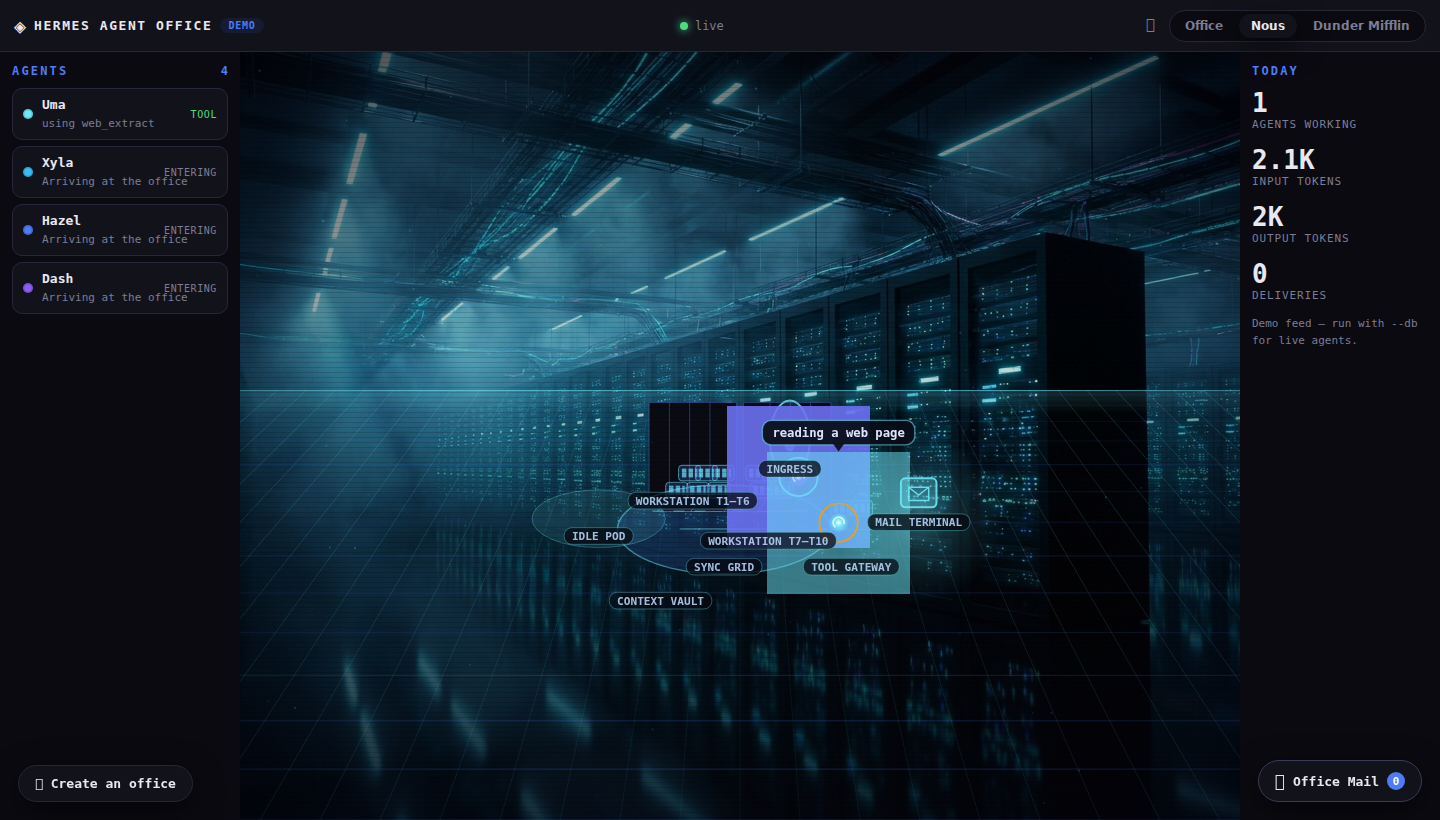
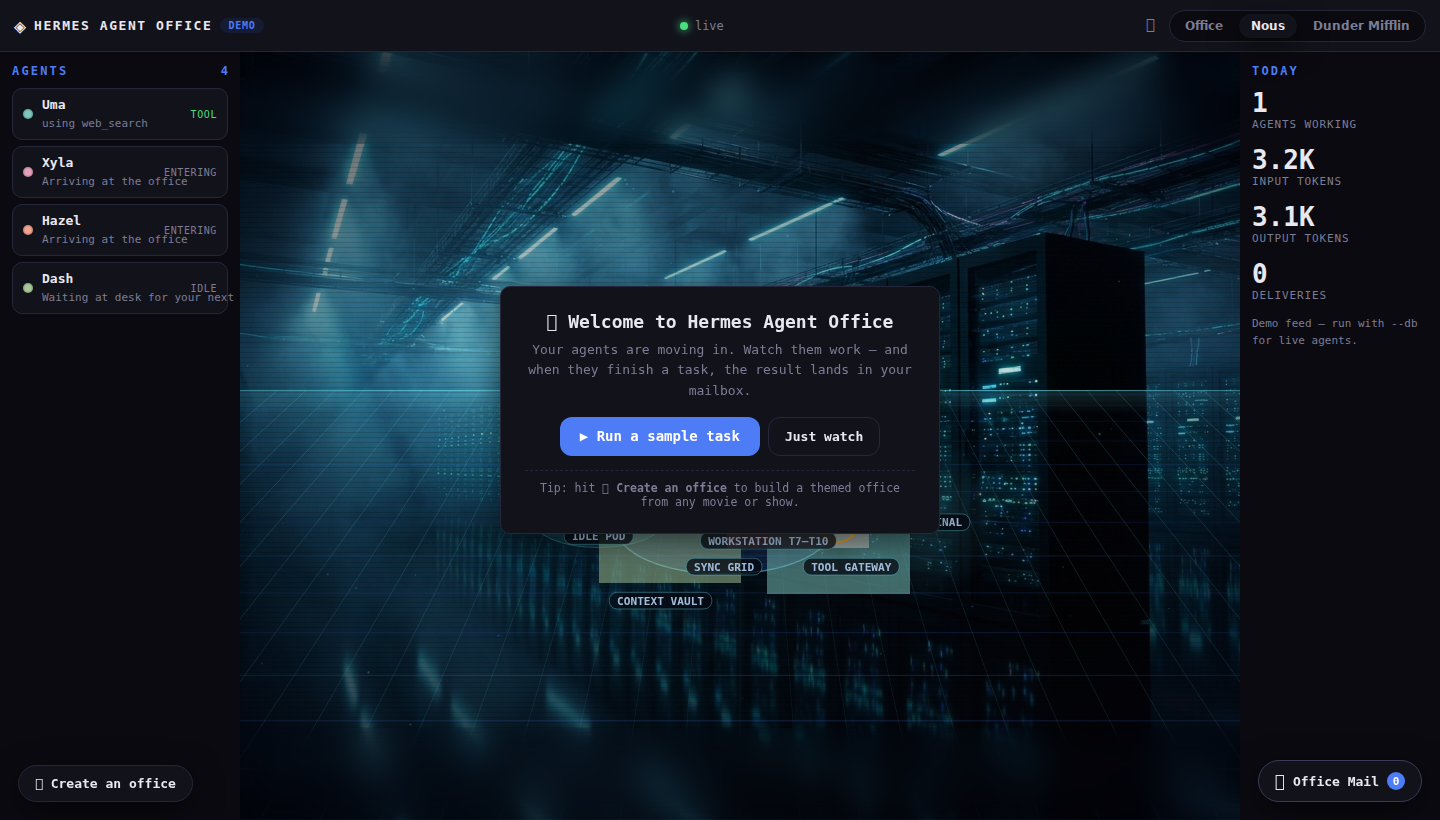
feat: tilt-shift depth-of-field on all themes, archetype cast on built-in themes, generated ambient soundscape (WebAudio), fixed cast dispatch for generic office

diff --git a/web/app.js b/web/app.js
@@ -9,7 +9,7 @@
 
 const THEMES = {
   office: {
-    name: 'office', brand: '🏢', renderer: 'office',
+    name: 'office', brand: '🏢', renderer: 'office', franchiseId: 'office',
     ui: { accent: '#d96f4a' },
     floor: { base: '#e8dcc3', alt: '#e1d3b6', grid: 'rgba(120,100,60,0.10)' },
     wall: { back: '#a9b8a0', side: '#9db29a', base: '#8fa08a', frame: '#7c8a76' },
@@ -36,7 +36,7 @@ const THEMES = {
   },
 
   nous: {
-    name: 'nous', brand: '◈', renderer: 'nous',
+    name: 'nous', brand: '◈', renderer: 'nous', franchiseId: 'office',
     ui: { accent: '#4d7cf6' },
     floor: { base: '#0d0d15', alt: '#10101a', grid: 'rgba(77,124,246,0.28)' },
     wall: { back: '#13131e', side: '#101019', base: '#1a1a28', frame: '#2a2a42' },
@@ -63,7 +63,7 @@ const THEMES = {
   },
 
   dunder: {
-    name: 'dunder', brand: '📎', renderer: 'dunder',
+    name: 'dunder', brand: '📎', renderer: 'dunder', franchiseId: 'office',
     ui: { accent: '#c07c2b' },
     floor: { base: '#8b93a8', alt: '#878fa4', grid: 'rgba(60,60,80,0.14)' },
     wall: { back: '#d9c9a8', side: '#d3c2a0', base: '#b8a683', frame: '#a59370' },
@@ -229,7 +229,9 @@ function handleEvent(ev) {
 
 function agentFromStore(ev) {
   const name = ev.agent || 'Agent';
-  const look = castLook(name, (eng.theme && eng.theme.franchiseId) || null);
+  const look = (eng.theme && eng.theme.franchiseId)
+    ? castLook(name, eng.theme.franchiseId)
+    : officeCastLook(name);
   return {
     id: ev.agent_id || ev.session || ('a' + Math.random().toString(36).slice(2)),
     name,
@@ -249,7 +251,7 @@ function relookAgents() {
   const fid = (eng.theme && eng.theme.franchiseId) || null;
   const darkTheme = !!(eng.theme && eng.theme.fx && eng.theme.fx.dark);
   for (const a of eng.agents.values()) {
-    a.look = castLook(a.name, fid);
+    a.look = fid ? castLook(a.name, fid) : officeCastLook(a.name);
     a.look.hue = darkTheme ? liftDark(a.look.hue || a.color) : (a.look.hue || a.color);
     a.color = a.look.hue;
   }
@@ -476,10 +478,62 @@ const Sound = {
   },
   delivery() { this.pop(660, 0.12, 0.06); setTimeout(() => this.pop(880, 0.1, 0.04), 90); },
   theme() { this.pop(440, 0.08, 0.04); },
+  /* ambient office soundscape — synthesized, zero assets */
+  ambientNodes: null,
+  startAmbient() {
+    this.ensure();
+    if (this.ambientNodes || !this.ctx || this.muted) return;
+    const ctx = this.ctx;
+    const master = ctx.createGain();
+    master.gain.value = 0.035;
+    master.connect(ctx.destination);
+    // brown-ish noise (air handling / room tone)
+    const len = ctx.sampleRate * 2;
+    const buf = ctx.createBuffer(1, len, ctx.sampleRate);
+    const d = buf.getChannelData(0);
+    let last = 0;
+    for (let i = 0; i < len; i++) { const w = Math.random() * 2 - 1; last = (last + 0.02 * w) / 1.02; d[i] = last * 3.5; }
+    const noise = ctx.createBufferSource();
+    noise.buffer = buf;
+    noise.loop = true;
+    const lp = ctx.createBiquadFilter();
+    lp.type = 'lowpass';
+    lp.frequency.value = 320;
+    noise.connect(lp).connect(master);
+    noise.start();
+    // faint keyboard click loop
+    const clicks = ctx.createGain();
+    clicks.gain.value = 0.35;
+    clicks.connect(master);
+    const tick = () => {
+      if (!this.ambientNodes || this.muted) return;
+      if (Math.random() < 0.5) {
+        const o = ctx.createOscillator();
+        const g = ctx.createGain();
+        o.type = 'square';
+        o.frequency.value = 1200 + Math.random() * 800;
+        g.gain.setValueAtTime(0.15, ctx.currentTime);
+        g.gain.exponentialRampToValueAtTime(0.001, ctx.currentTime + 0.03);
+        o.connect(g).connect(clicks);
+        o.start(); o.stop(ctx.currentTime + 0.04);
+      }
+      setTimeout(tick, 120 + Math.random() * 420);
+    };
+    tick();
+    this.ambientNodes = { master, noise };
+  },
+  stopAmbient() {
+    if (this.ambientNodes) {
+      try { this.ambientNodes.noise.stop(); } catch (e) {}
+      this.ambientNodes = null;
+    }
+  },
 };
 
 function toggleMute() {
   Sound.muted = !Sound.muted;
+  if (Sound.muted) Sound.stopAmbient();
+  else Sound.startAmbient();
   const b = document.getElementById('mute-btn');
   if (b) b.textContent = Sound.muted ? '🔇' : '🔊';
   localStorage.setItem('office-muted', Sound.muted ? '1' : '0');
@@ -620,6 +674,14 @@ function boot() {
   const saved = localStorage.getItem('office-theme') || 'office';
   applyTheme(saved);
   Sound.muted = localStorage.getItem('office-muted') === '1';
+  // autoplay policy: start the soundscape on first click/key anywhere
+  const kick = () => {
+    if (!Sound.muted) Sound.startAmbient();
+    window.removeEventListener('pointerdown', kick);
+    window.removeEventListener('keydown', kick);
+  };
+  window.addEventListener('pointerdown', kick);
+  window.addEventListener('keydown', kick);
   const mb = document.getElementById('mute-btn');
   if (mb) { mb.textContent = Sound.muted ? '🔇' : '🔊'; mb.addEventListener('click', toggleMute); }
 

diff --git a/web/office-renderer.js b/web/office-renderer.js
@@ -17,6 +17,9 @@ const OfficeRenderer = {
     img.src = '/assets/office-window.png';
     img.onload = () => { this.backdrop = img; if (eng.renderer === this) eng.resize(); };
     this._dust = [];
+    this._blurTop = null;
+    this._blurBottom = null;
+    this._blurTimer = 0;
     for (let i = 0; i < 46; i++) {
       this._dust.push({
         x: Math.random(), y: Math.random(), z: Math.random() * 0.6 + 0.2,
@@ -302,10 +305,42 @@ const OfficeRenderer = {
     }
   },
 
-  /* per-frame dynamic: agents, mailbox glow, dust, labels */
+  /* per-frame dynamic: agents, mailbox glow, dust, labels, tilt-shift DOF */
   draw(eng, ctx, dt) {
     ctx.clearRect(0, 0, eng.cssW, eng.cssH);
-    if (eng.staticLayer) ctx.drawImage(eng.staticLayer, 0, 0);
+    this._blurTimer -= dt;
+    // rebuild the blurred edge bands occasionally (and on resize)
+    if ((!this._blurTop || this._blurTimer <= 0) && eng.staticLayer) {
+      this._buildBlurBands(eng);
+      this._blurTimer = 2.0;
+    }
+    // composite: sharp static center + blurred top/bottom edges
+    if (eng.staticLayer) {
+      ctx.drawImage(eng.staticLayer, 0, 0);
+      const band = Math.round(eng.cssH * 0.13);
+      if (this._blurTop) {
+        ctx.drawImage(this._blurTop, 0, 0, eng.cssW, band, 0, 0, eng.cssW, band);
+        // feathered seam so the blur fades in
+        const fade = ctx.createLinearGradient(0, band * 0.4, 0, band);
+        fade.addColorStop(0, 'rgba(0,0,0,0)');
+        fade.addColorStop(1, 'rgba(0,0,0,1)');
+        ctx.globalCompositeOperation = 'destination-in';
+        ctx.fillStyle = fade;
+        ctx.fillRect(0, 0, eng.cssW, band);
+        ctx.globalCompositeOperation = 'source-over';
+      }
+      if (this._blurBottom) {
+        const y0 = eng.cssH - band;
+        ctx.drawImage(this._blurBottom, 0, 0, eng.cssW, band, 0, y0, eng.cssW, band);
+        const fade2 = ctx.createLinearGradient(0, y0, 0, y0 + band * 0.6);
+        fade2.addColorStop(0, 'rgba(0,0,0,1)');
+        fade2.addColorStop(1, 'rgba(0,0,0,0)');
+        ctx.globalCompositeOperation = 'destination-in';
+        ctx.fillStyle = fade2;
+        ctx.fillRect(0, y0, eng.cssW, band);
+        ctx.globalCompositeOperation = 'source-over';
+      }
+    }
 
     // mailbox (dynamic glow + flag)
     const mail = eng.theme.stations.find(s => s.type === 'mail');
@@ -921,6 +956,31 @@ const OfficeRenderer = {
     ctx.arc(2.6 * s, -12 * s, 1.4 * s, 0, Math.PI * 2);
     ctx.fill();
     ctx.restore();
+  },
+
+  _buildBlurBands(eng) {
+    const w = eng.cssW, h = eng.cssH;
+    const band = Math.round(h * 0.13);
+    const make = () => {
+      const c = document.createElement('canvas');
+      c.width = w; c.height = band;
+      return c;
+    };
+    // top band
+    const top = make();
+    const tg = top.getContext('2d');
+    tg.drawImage(eng.staticLayer, 0, 0, w, band, 0, 0, w, band);
+    tg.filter = 'blur(' + Math.max(3, band * 0.16) + 'px)';
+    tg.drawImage(eng.staticLayer, 0, 0, w, band, 0, 0, w, band);
+    this._blurTop = top;
+    // bottom band
+    const bot = make();
+    const bg = bot.getContext('2d');
+    const y0 = h - band;
+    bg.drawImage(eng.staticLayer, 0, y0, w, band, 0, 0, w, band);
+    bg.filter = 'blur(' + Math.max(3, band * 0.16) + 'px)';
+    bg.drawImage(eng.staticLayer, 0, y0, w, band, 0, 0, w, band);
+    this._blurBottom = bot;
   },
 
   drawLabels(eng, ctx) {

diff --git a/web/custom.js b/web/custom.js
@@ -339,9 +339,35 @@ const GENERIC_LOOKS = [
   { hue:'#e8d5a0', topper:'hair',    acc:'mug' },
 ];
 
+/* Generic office cast — distinct looks for the built-in themes (no franchise) */
+const OFFICE_CAST = {
+  Uma:   { hue:'#7ec8c0', body:'slim',   topper:'headphones', tc:'#3a5a5a', acc:'coffee', face:'calm' },
+  Xyla:  { hue:'#e8a0b8', body:'slim',   topper:'bob',        tc:'#7a3a4a', acc:'bow',    face:'calm' },
+  Hazel: { hue:'#f2a38f', body:'default', topper:'catears',   tc:'#8a4a3a', acc:'mug',    face:'calm' },
+  Dash:  { hue:'#a8c89a', body:'wide',   topper:'cap',        tc:'#3a5a2e', acc:'book',   face:'calm' },
+  Pixel: { hue:'#c39ad8', body:'small',  topper:'horns',      tc:'#5a3a7a', acc:'none',   face:'calm' },
+  Coco:  { hue:'#8fb7e8', body:'round',  topper:'bun',        tc:'#2e4a6a', acc:'none',   face:'calm' },
+  Gizmo: { hue:'#e8d5a0', body:'lanky',  topper:'hair',       tc:'#5a4a1e', acc:'card',   face:'grin' },
+  Yara:  { hue:'#e8a0a0', body:'tall',   topper:'ears',       tc:'#5a2e3a', acc:'collar', face:'calm' },
+  Nova:  { hue:'#9ab8c8', body:'default',topper:'hair',       tc:'#2e4a5a', acc:'glasses',face:'calm' },
+  Sage:  { hue:'#a8c8a0', body:'tall',   topper:'headphones', tc:'#3a5a3a', acc:'none',  face:'calm' },
+};
+
+
 function castLook(name, franchiseId) {
   const cast = CAST[franchiseId];
   if (cast && cast[name]) return Object.assign({ body:'default', face:'calm' }, cast[name]);
+  // fall back to the named generic-office cast, then to procedural looks
+  const named = OFFICE_CAST[name];
+  if (named) return Object.assign({ body:'default', face:'calm' }, named);
+  const g = GENERIC_LOOKS[hashCode(name || '') % GENERIC_LOOKS.length];
+  return Object.assign({ body:'default', face:'calm' }, g);
+}
+
+
+function officeCastLook(name) {
+  const hit = OFFICE_CAST[name];
+  if (hit) return Object.assign({ body:'default', face:'calm' }, hit);
   const g = GENERIC_LOOKS[hashCode(name || '') % GENERIC_LOOKS.length];
   return Object.assign({ body:'default', face:'calm' }, g);
 }

diff --git a/web/nous-renderer.js b/web/nous-renderer.js
@@ -9,6 +9,9 @@ const NousRenderer = {
 
   init(eng) {
     this.agentsV = new Map();
+    this._blurTop = null;
+    this._blurBottom = null;
+    this._blurTimer = 0;
     this.backdrop = null;
     const img = new Image();
     img.src = '/assets/nous-backdrop.png';
@@ -265,6 +268,11 @@ const NousRenderer = {
   /* per-frame: agents as glowing orbs with trails */
   draw(eng, ctx, dt) {
     ctx.clearRect(0, 0, eng.cssW, eng.cssH);
+    this._blurTimer -= dt;
+    if ((!this._blurTop || this._blurTimer <= 0) && eng.staticLayer) {
+      this._buildBlurBands(eng);
+      this._blurTimer = 2.0;
+    }
     if (eng.staticLayer) ctx.drawImage(eng.staticLayer, 0, 0);
 
     const now = performance.now() / 1000;
@@ -400,6 +408,35 @@ const NousRenderer = {
       }
     }
     ctx.textAlign = 'left';
+
+    // tilt-shift DOF bands over the static backdrop
+    const band = Math.round(eng.cssH * 0.12);
+    if (this._blurTop) {
+      ctx.drawImage(this._blurTop, 0, 0, eng.cssW, band, 0, 0, eng.cssW, band);
+    }
+    if (this._blurBottom) {
+      const y0 = eng.cssH - band;
+      ctx.drawImage(this._blurBottom, 0, 0, eng.cssW, band, 0, y0, eng.cssW, band);
+    }
+  },
+
+  _buildBlurBands(eng) {
+    const w = eng.cssW, h = eng.cssH;
+    const band = Math.round(h * 0.12);
+    const mk = () => { const c = document.createElement('canvas'); c.width = w; c.height = band; return c; };
+    const top = mk();
+    const tg = top.getContext('2d');
+    tg.drawImage(eng.staticLayer, 0, 0, w, band, 0, 0, w, band);
+    tg.filter = 'blur(' + Math.max(3, band * 0.16) + 'px)';
+    tg.drawImage(eng.staticLayer, 0, 0, w, band, 0, 0, w, band);
+    this._blurTop = top;
+    const bot = mk();
+    const bg = bot.getContext('2d');
+    const y0 = h - band;
+    bg.drawImage(eng.staticLayer, 0, y0, w, band, 0, 0, w, band);
+    bg.filter = 'blur(' + Math.max(3, band * 0.16) + 'px)';
+    bg.drawImage(eng.staticLayer, 0, y0, w, band, 0, 0, w, band);
+    this._blurBottom = bot;
   },
 
   drawOrb(eng, ctx, a, c, vs, now) {

diff --git a/web/dunder-renderer.js b/web/dunder-renderer.js
@@ -10,6 +10,9 @@ const DunderRenderer = {
 
   init(eng) {
     this.agentsV = new Map();
+    this._blurTop = null;
+    this._blurBottom = null;
+    this._blurTimer = 0;
     this.backdrop = null;
     const img = new Image();
     img.src = '/assets/dunder-backdrop.png';
@@ -111,6 +114,11 @@ const DunderRenderer = {
 
   draw(eng, ctx, dt) {
     ctx.clearRect(0, 0, eng.cssW, eng.cssH);
+    this._blurTimer -= dt;
+    if ((!this._blurTop || this._blurTimer <= 0) && eng.staticLayer) {
+      this._buildBlurBands(eng);
+      this._blurTimer = 2.0;
+    }
     if (eng.staticLayer) ctx.drawImage(eng.staticLayer, 0, 0);
 
     const now = performance.now() / 1000;
@@ -171,6 +179,33 @@ const DunderRenderer = {
       }
     }
     ctx.textAlign = 'left';
+
+    // tilt-shift DOF bands (soften top/bottom edges)
+    const band = Math.round(eng.cssH * 0.11);
+    if (this._blurTop) ctx.drawImage(this._blurTop, 0, 0, eng.cssW, band, 0, 0, eng.cssW, band);
+    if (this._blurBottom) {
+      const y0 = eng.cssH - band;
+      ctx.drawImage(this._blurBottom, 0, 0, eng.cssW, band, 0, y0, eng.cssW, band);
+    }
+  },
+
+  _buildBlurBands(eng) {
+    const w = eng.cssW, h = eng.cssH;
+    const band = Math.round(h * 0.11);
+    const mk = () => { const c = document.createElement('canvas'); c.width = w; c.height = band; return c; };
+    const top = mk();
+    const tg = top.getContext('2d');
+    tg.drawImage(eng.staticLayer, 0, 0, w, band, 0, 0, w, band);
+    tg.filter = 'blur(' + Math.max(3, band * 0.14) + 'px)';
+    tg.drawImage(eng.staticLayer, 0, 0, w, band, 0, 0, w, band);
+    this._blurTop = top;
+    const bot = mk();
+    const bg = bot.getContext('2d');
+    const y0 = h - band;
+    bg.drawImage(eng.staticLayer, 0, y0, w, band, 0, 0, w, band);
+    bg.filter = 'blur(' + Math.max(3, band * 0.14) + 'px)';
+    bg.drawImage(eng.staticLayer, 0, y0, w, band, 0, 0, w, band);
+    this._blurBottom = bot;
   },
 
   drawAgent(eng, ctx, a, now) {

diff --git a/README.md b/README.md
@@ -16,13 +16,22 @@ tool room when they call a tool, and drop finished work in your mailbox.
 | **Nous** | a holographic data plane — AI-painted data center, neon perspective grid, glowing agent orbs with light trails |
 | **Dunder Mifflin** | the Scranton branch, painted in flat 2D sitcom style — reception, bullpen, conference room, break room |
 
+### Cinematic feel
+
+Every theme gets a **tilt-shift depth-of-field** (soft blurred top/bottom edges),
+contact shadows, warm spotlight halos behind characters, and a warm/cool
+split-tone grade — the "photographed miniature" look. A **generated ambient
+soundscape** (room tone + keyboard clicks, zero audio assets) plays once you
+interact; toggle it with the 🔊 button.
+
 ### Characters that actually look like their names
 
 Each franchise's agents are visually **distinct characters**, not colored blobs:
 Batman gets a pointed-eared cowl and cape, Robin a mask and red suit, Joker green
 hair and a playing card — same for Star Wars, Ghibli, The Office and the rest
 (each agent owns a body type, head silhouette, one accessory and a bound
-identity color across canvas, roster and mail).
+identity color across canvas, roster and mail). Even the built-in themes give
+every demo agent its own look (headphones, bob, cat ears, coffee, book…).
 
 ### First run
 
